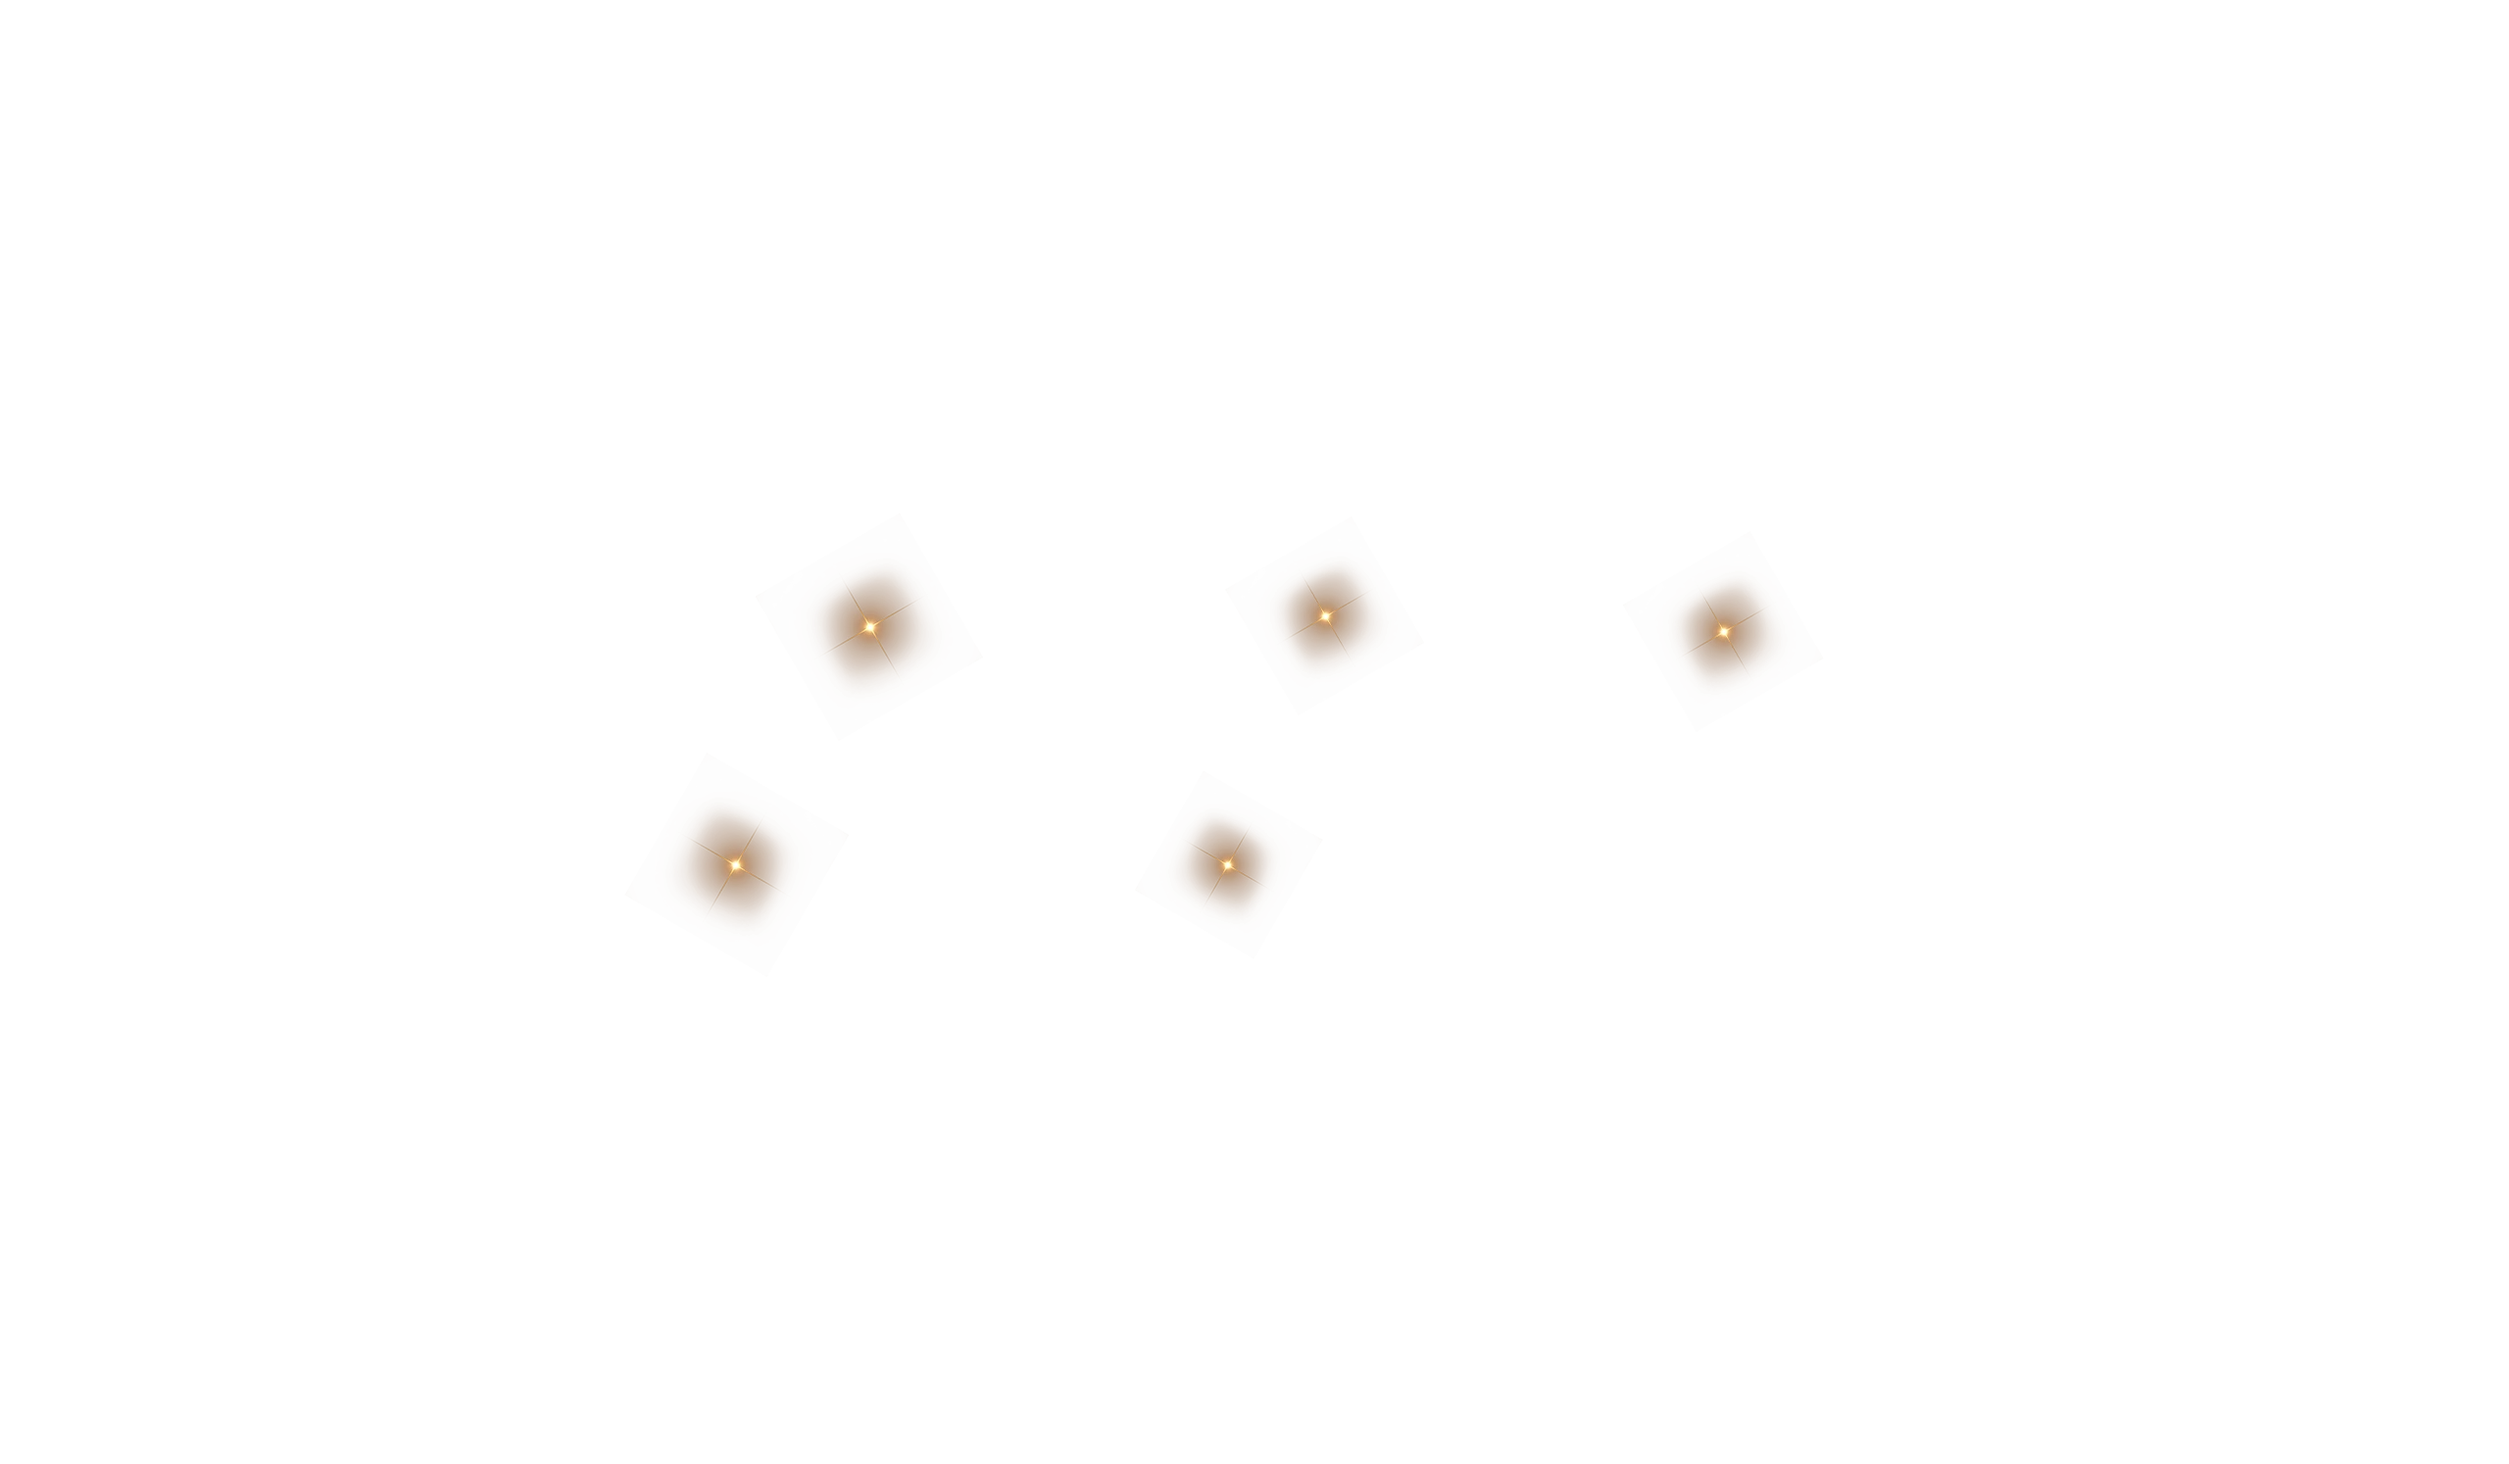
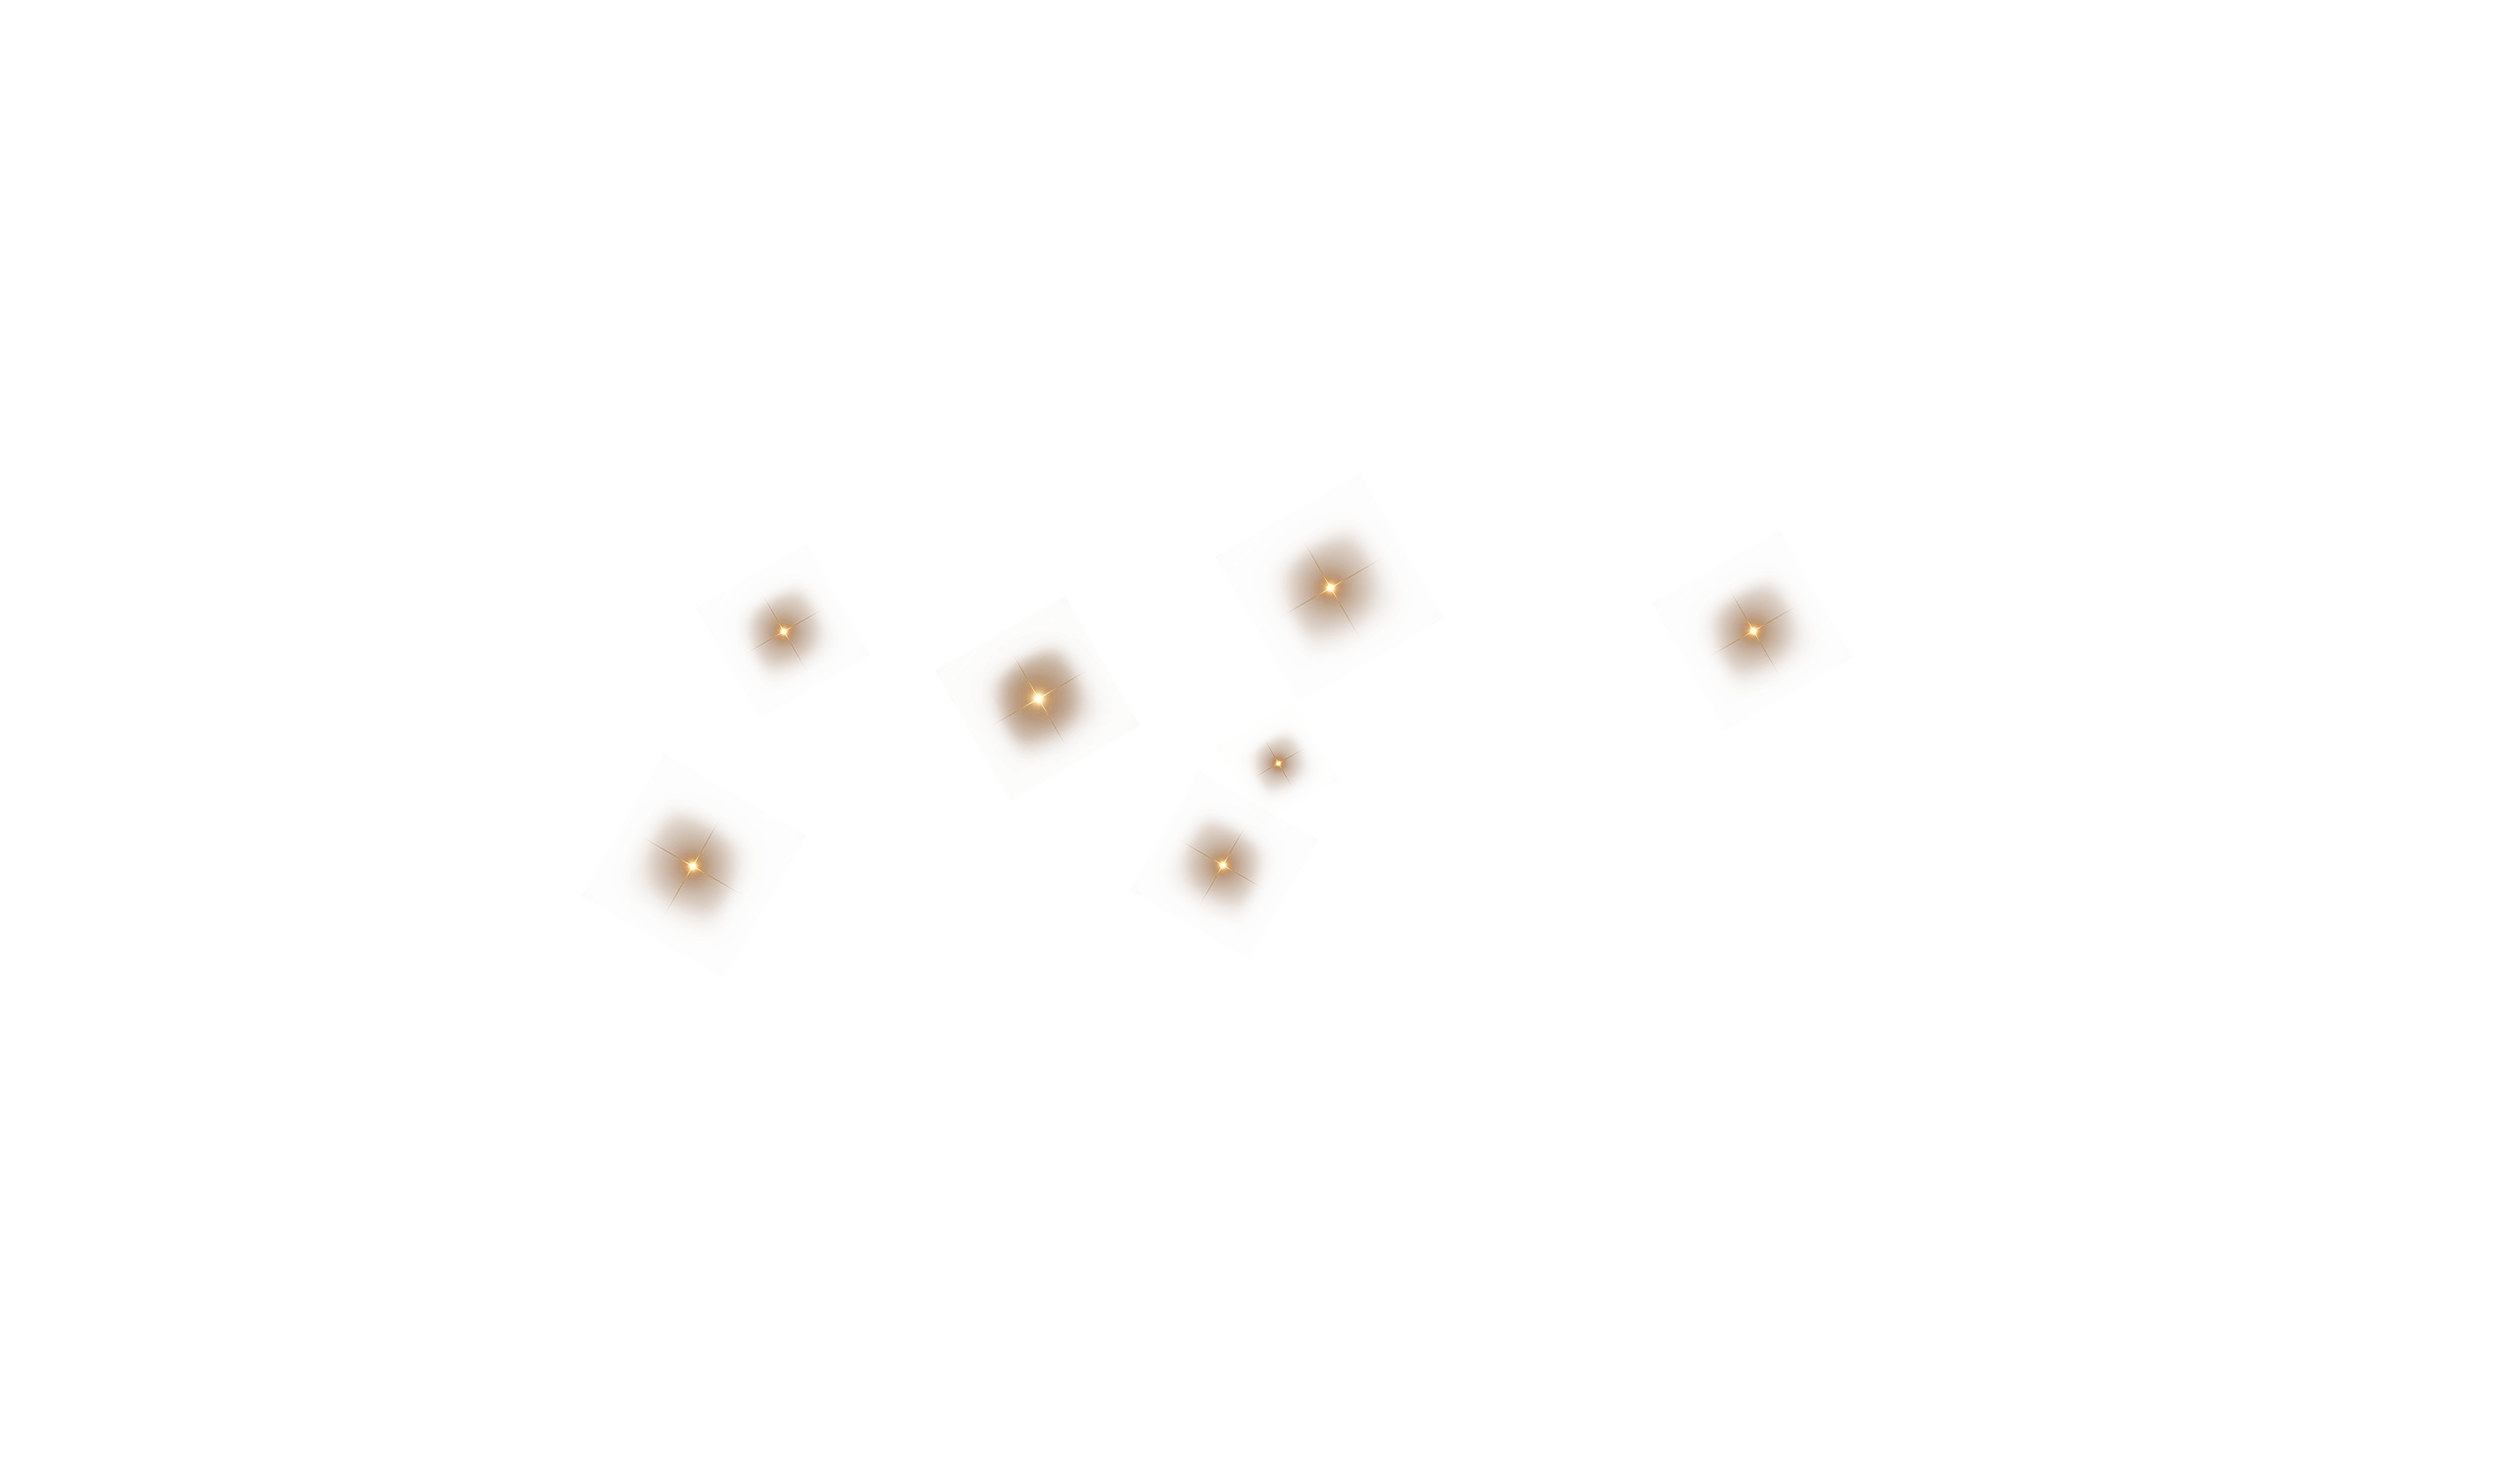
명예의전당 — 2차 소스로 전체 교체(배경 금색 타이틀, 반짝이 2종, 빔 4종 진하기 상향본)

diff --git a/itall-hall-of-fame/index.html b/itall-hall-of-fame/index.html
@@ -13,7 +13,7 @@
       - 레퍼런스: EBSi 2027 수능 D-100 이벤트 KV — 조명 스윙 + 반짝임
       - 소스는 2배수(2560 기준) → 화면에는 절반 크기
       - 조명: 빔 꼭짓점(조명 기구 위치)을 transform-origin으로 잡고 좌우 스윙 + 밝기 깜빡임
-        빔 이미지는 원본(spotlight_*.png)의 투명도를 2배로 올린 *_x2.png 사용 — 원본이 최대 21%로 옅어 '더 진하게' 요청 반영
+        빔 이미지는 2차 소스(2026-10-07 오후) 그대로 — 디자이너가 진하기 올려서 전달(상단 최대 40%, 하단 24%)
         LT/RT = 상단 좌/우, LB/RB = 하단 좌/우(Left/Right Bottom) — 각 모서리에 붙임
       - 반짝이: light_1 / light_2 교차 페이드 (KV 크기 이미지를 KV 전체에 덮음)
       - KV 효과 위치·크기는 KV 박스 기준 % (가로 ÷1280, 세로 ÷747) — 스크롤바·화면 폭과 무관하게 KV와 함께 비례
@@ -354,36 +354,36 @@
 
     /* 빔 4개 — 각 모서리에 붙이고, 빔 꼭짓점(모서리 쪽)을 회전 중심으로 스윙
        크기는 KV 기준 % (2배수 소스 ÷2 ÷1280) */
-    .beam--lt {               /* 443×448 */
+    .beam--lt {               /* 454.5×458 */
       top: 0;
       left: 0;
-      width: 34.6094%;
+      width: 35.5078%;
       transform-origin: 1% 1%;
       --swing: swing-lt; --dur: 3.2s;
     }
 
-    .beam--rt {               /* 442.5×448.5 */
+    .beam--rt {               /* 454.5×458 */
       top: 0;
       right: 0;
-      width: 34.5703%;
+      width: 35.5078%;
       transform-origin: 99% 1%;
       --swing: swing-rt; --dur: 3.6s; --delay: -1.5s;
     }
 
-    .beam--lb {               /* 369.5×225 */
+    .beam--lb {               /* 374×231.5 */
       bottom: 0;
       left: 0;
-      width: 28.8672%;
+      width: 29.2188%;
       transform-origin: 1% 99%;
       opacity: var(--beam-bottom-opacity);
       --speed: var(--beam-bottom-speed);
       --swing: swing-lb; --dur: 2.8s; --delay: -1s;
     }
 
-    .beam--rb {               /* 369.5×225 */
+    .beam--rb {               /* 374×231 */
       bottom: 0;
       right: 0;
-      width: 28.8672%;
+      width: 29.2188%;
       transform-origin: 99% 99%;
       opacity: var(--beam-bottom-opacity);
       --speed: var(--beam-bottom-speed);
@@ -757,10 +757,10 @@
             <img class="kv__bg" src="assets/kv_bg.webp" width="1280" height="747"
                  alt="2027 명예의 전당 최대 2억원 규모 장학·합격 축하금. 여러분이 잇올의 자랑입니다. 치열했던 노력의 순간들, 그 끝에서 완성 합격. 잇올은 여러분의 1년을 기억합니다.">
 
-            <img class="fx beam beam--lt" src="assets/spotlight_LT_x2.webp" width="443" height="448" alt="" aria-hidden="true">
-            <img class="fx beam beam--rt" src="assets/spotlight_RT_x2.webp" width="443" height="449" alt="" aria-hidden="true">
-            <img class="fx beam beam--lb" src="assets/spotlight_LB_x2.webp" width="370" height="225" alt="" aria-hidden="true">
-            <img class="fx beam beam--rb" src="assets/spotlight_RB_x2.webp" width="370" height="225" alt="" aria-hidden="true">
+            <img class="fx beam beam--lt" src="assets/spotlight_LT.webp" width="455" height="458" alt="" aria-hidden="true">
+            <img class="fx beam beam--rt" src="assets/spotlight_RT.webp" width="455" height="458" alt="" aria-hidden="true">
+            <img class="fx beam beam--lb" src="assets/spotlight_LB.webp" width="374" height="232" alt="" aria-hidden="true">
+            <img class="fx beam beam--rb" src="assets/spotlight_RB.webp" width="374" height="231" alt="" aria-hidden="true">
 
             <img class="fx sparkle sparkle--1" src="assets/light_1.webp" width="1280" height="747" alt="" aria-hidden="true">
             <img class="fx sparkle sparkle--2" src="assets/light_2.webp" width="1280" height="747" alt="" aria-hidden="true">
